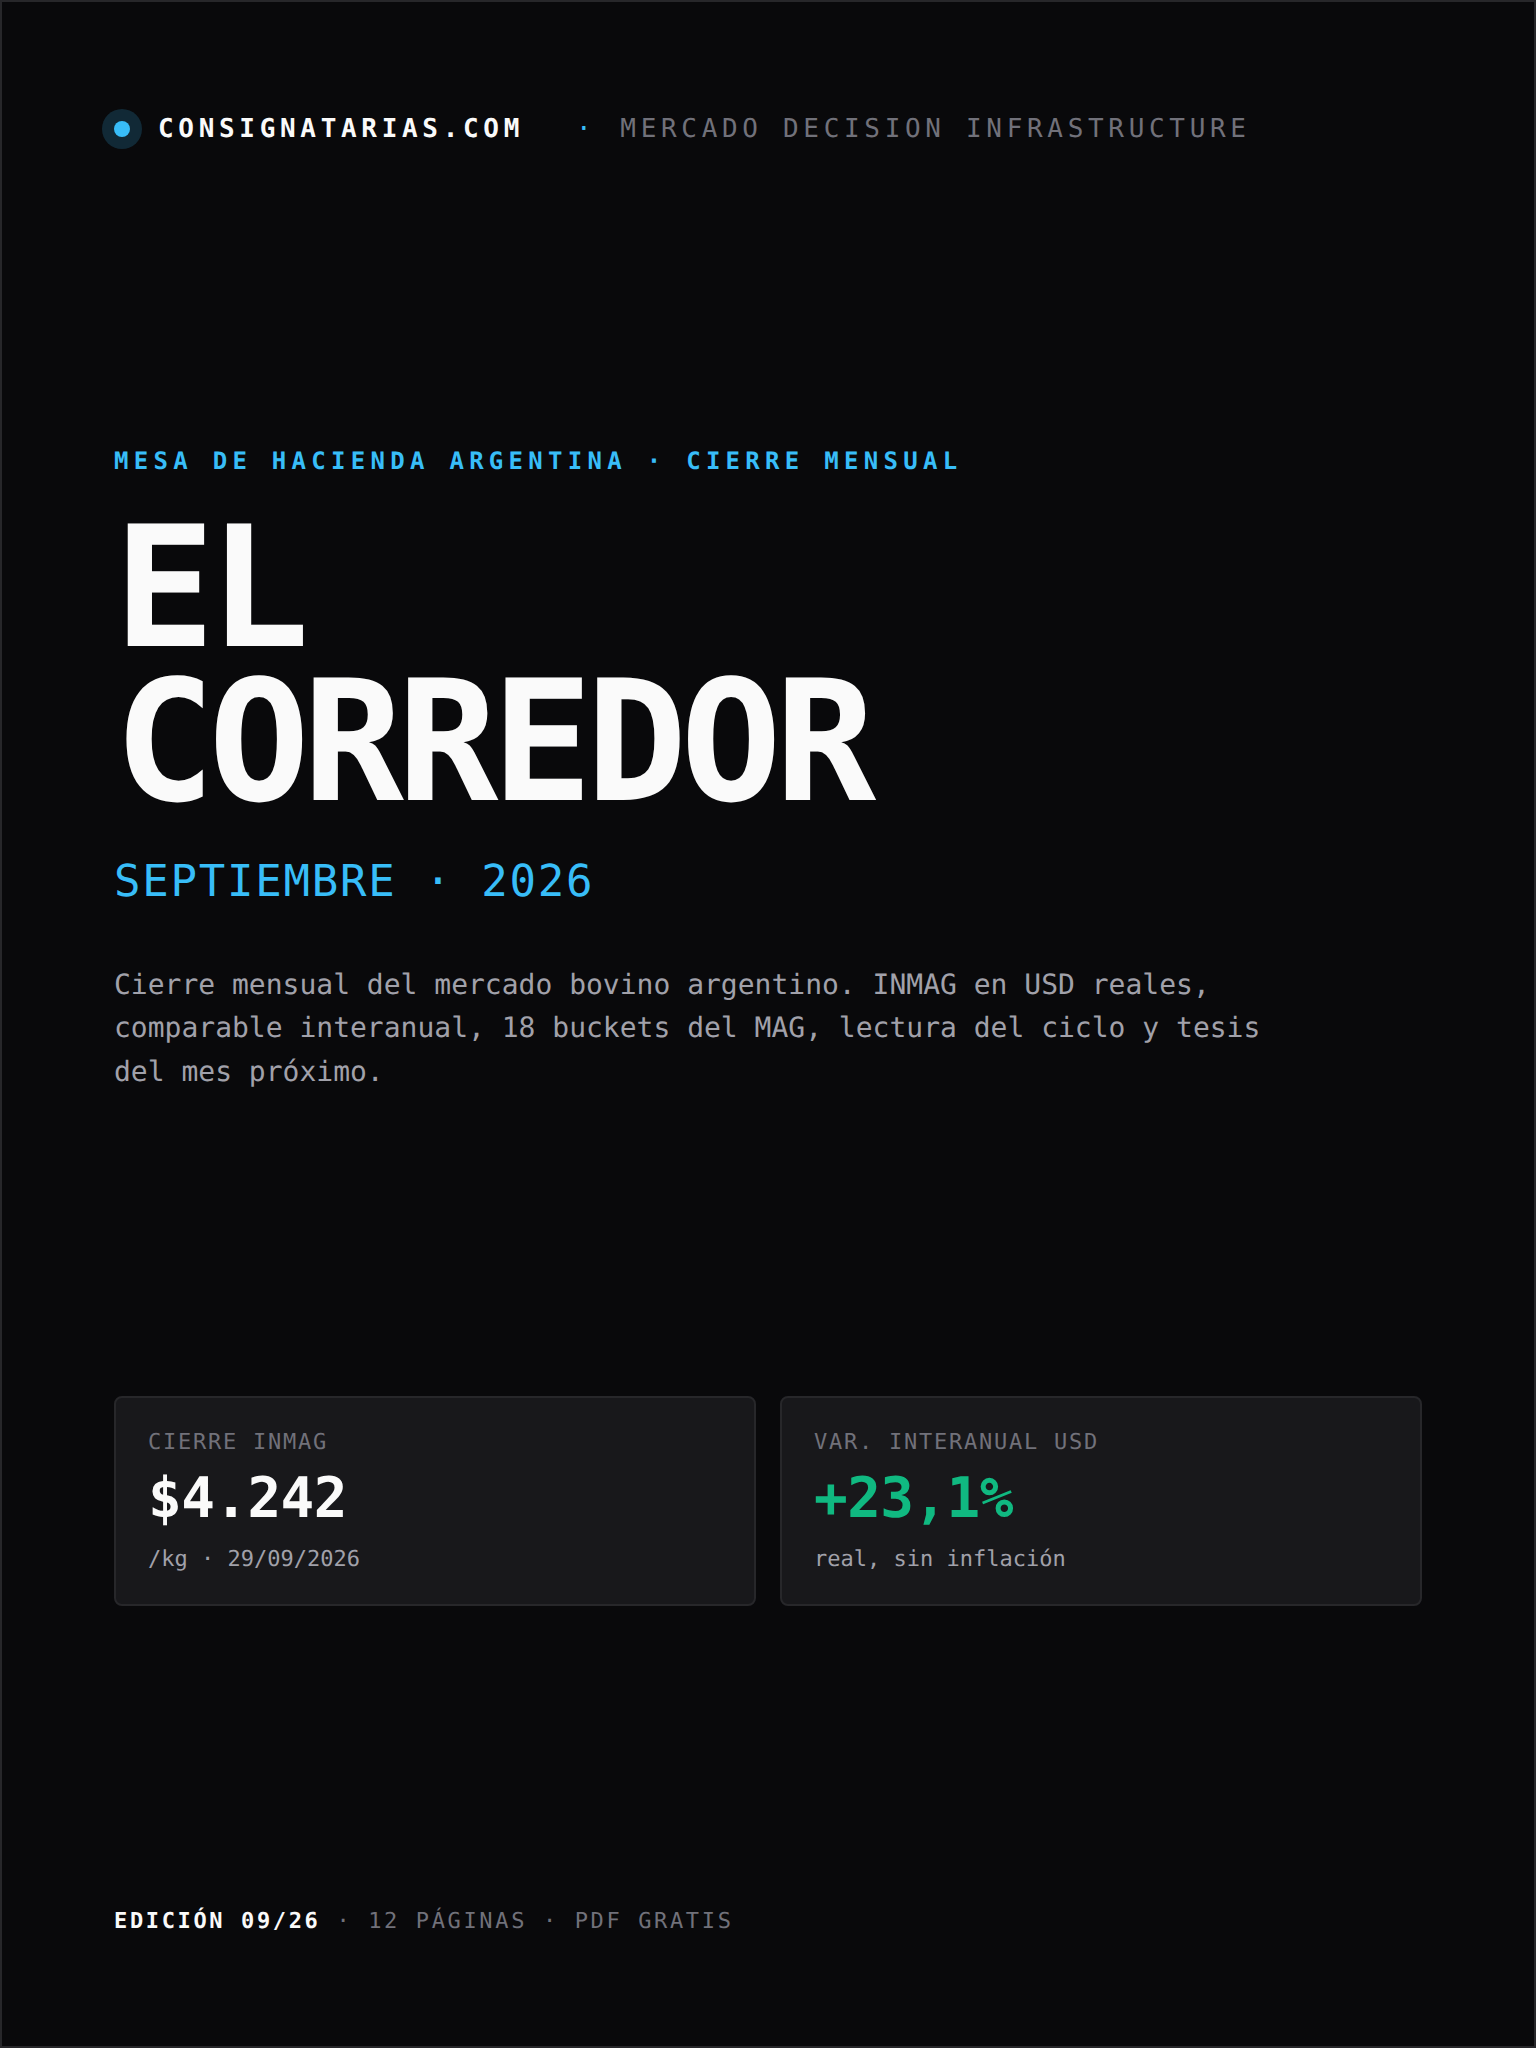
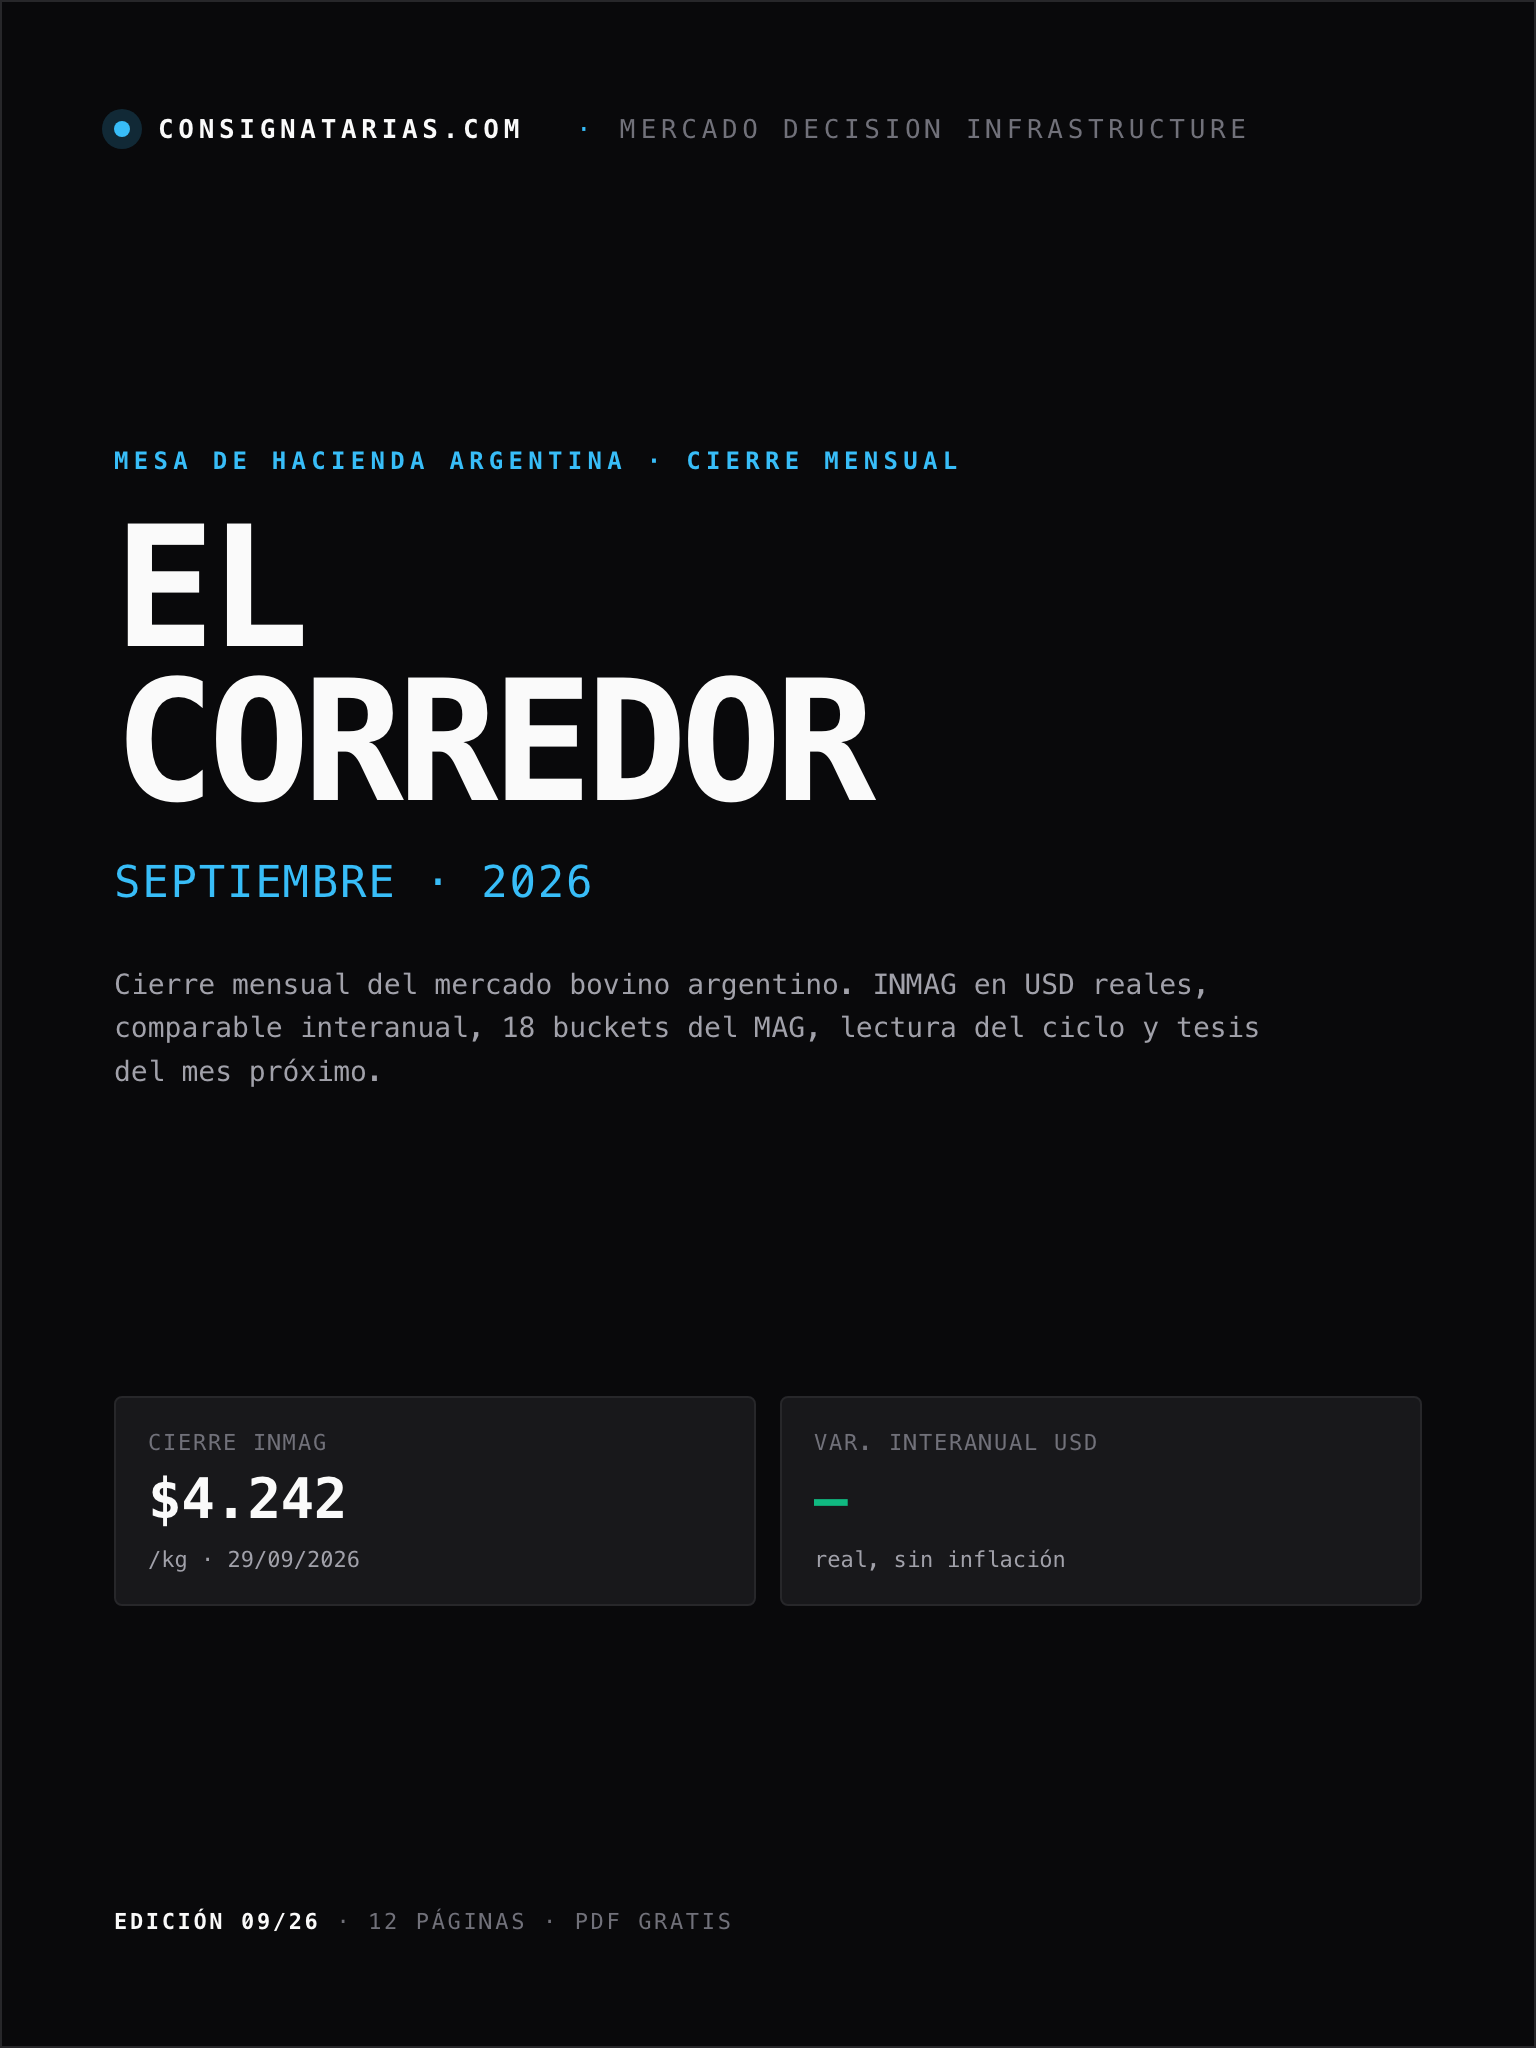
fix(corredor): el pipeline mensual publica el generador nuevo, no el viejo
Sin esto, el 1 de noviembre el cron habría vuelto a publicar el informe con el
indicador de ciclo invertido: publish.py seguía llamando a render.py. Ahora llama
a informe.py, y el workflow pasa las credenciales de Supabase, que el generador
nuevo necesita para leer el INMAG, los lotes y las bandas VR.

Y un PDF que no se generó ya no sigue de largo: antes el manifest se actualizaba
igual y el blast mandaba a los suscriptores a la edición del mes anterior.

render.py queda como referencia histórica; no se publica más desde ahí.
Pipeline completo verificado de punta a punta sobre septiembre.

diff --git a/scripts/monthly-report/publish.py b/scripts/monthly-report/publish.py
@@ -100,8 +100,13 @@ def main() -> None:
         print("\n→ [1-2/4] Skipping data refresh (--skip-data-refresh)")
 
     # 2. Render PDF + product images
+    #
+    # `informe.py` es el generador vigente desde el 05-10-2026 (fondo blanco e
+    # imprimible, fuentes embebidas, hembras calculadas sobre las 8 categorías y
+    # sin precio de ternero). `render.py` quedó como referencia histórica: NO se
+    # publica más desde ahí, porque imprimía el indicador de ciclo al revés.
     print(f"\n→ [3/4] Render PDF + product images")
-    run(["python3", str(HERE / "render.py"), "--month", target_ym, "--pdf"])
+    run(["python3", str(HERE / "informe.py"), "--mes", target_ym, "--pdf"])
     run(["python3", str(HERE / "product_image.py"), "--month", target_ym])
 
     # 3. Copy to public/
@@ -109,7 +114,7 @@ def main() -> None:
     PUBLIC.mkdir(parents=True, exist_ok=True)
 
     pairs = [
-        (OUT / f"informe-{target_ym}.pdf", PUBLIC / f"{month_slug}.pdf"),
+        (OUT / f"el-corredor-{target_ym}.pdf", PUBLIC / f"{month_slug}.pdf"),
         (OUT / f"el-corredor-{target_ym}-cover-portrait-768x1024.png", PUBLIC / f"cover-{month_slug}.png"),
         (OUT / f"el-corredor-{target_ym}-og-1200x630.png", PUBLIC / f"og-{month_slug}.png"),
         (OUT / f"el-corredor-{target_ym}-square-1080x1080.png", PUBLIC / f"square-{month_slug}.png"),
@@ -120,6 +125,11 @@ def main() -> None:
             print(f"    {dst.name}  ({dst.stat().st_size // 1024} KB)")
         else:
             print(f"    ⚠ MISSING: {src.name}")
+            # El PDF no es opcional: sin él, el manifest se actualizaba igual y el
+            # blast mandaba a la gente a la edición del mes anterior.
+            if src.suffix == ".pdf":
+                print("::error::no se generó el PDF de la edición — no se publica nada")
+                sys.exit(1)
 
     # 4. Update manifest
     manifest_path = PUBLIC / "manifest.json"
